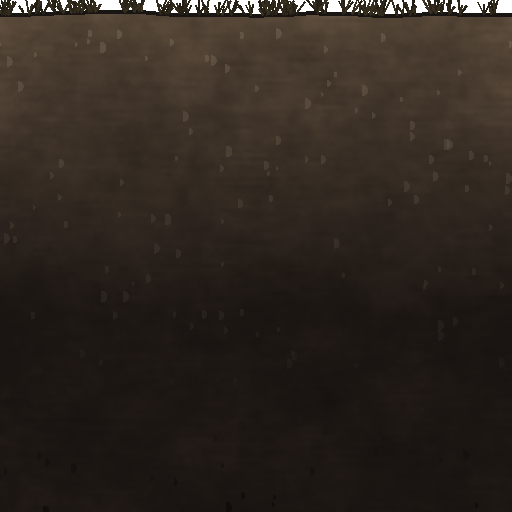
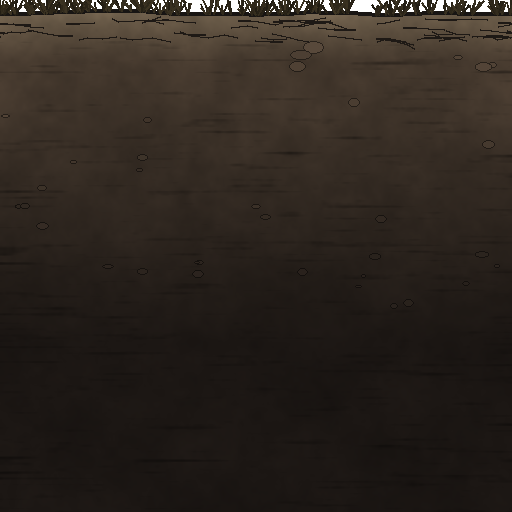
feat: ground strata/cracks + debris strip, fix parallax wrap seam, master limiter
- recorded game audio via movie writer: music + SFX present in mix; 0.007% clipped samples -> compressor + hard limiter, SFX -3 dB

Changed region(s): [[0.0, 0.0, 1.0, 0.0938], [0.5625, 0.0938, 0.5938, 0.125]]

diff --git a/tools/art/make_env.py b/tools/art/make_env.py
@@ -116,6 +116,11 @@ def mask_from(draw_fn, w, h, ss=2):
 
 
 def save(arr, name):
+    if name in ("far", "mid", "near", "fore"):
+        # texture_repeat + linear filtering would bleed the bottom row onto the top edge
+        arr = arr.copy()
+        arr[:2, :, 3] = 0
+        arr[-2:, :, 3] = 0
     Image.fromarray(arr).save(os.path.join(OUT, name + ".png"), optimize=True)
     print("wrote", name, arr.shape[1], "x", arr.shape[0])
 
@@ -379,45 +384,94 @@ def foreground(w=2048, h=200):
 
 
 def ground(w=512, h=512):
+    """Tileable earth: dusty surface band, dry-brush strata, embedded stones, dark depths."""
     n = fbm(h, w, 64, 40, 5, True)
     n2 = fbm(h, w, 12, 41, 3, True)
-    top = hexc("#5a4a3a"); deep = hexc("#1d1714")
     Y = np.linspace(0, 1, h)[:, None]
-    col = top + (deep - top) * np.clip(Y * 1.6, 0, 1)[..., None]
-    col = col * (0.8 + 0.35 * n[..., None]) * (0.9 + 0.2 * n2[..., None])
-    # strata streaks
-    s = value_noise(h, w, 4, 42, True)
-    s = ndi.uniform_filter1d(s, 31, axis=1)
-    col *= (0.9 + 0.2 * s)[..., None]
-    # pebbles
-    for _ in range(140):
-        cx, cy = rng.integers(0, w), rng.integers(30, h)
-        rr = rng.uniform(2, 6)
-        Yg, Xg = np.ogrid[0:h, 0:w]
-        dd = ((Xg - cx) % w) ** 2 + (Yg - cy) ** 2
-        pm = dd < rr * rr
-        col[pm] = col[pm] * 0.6 + hexc("#8a7a66") * 0.4 * (1 - cy / h)
-    # ink top edge + grass, first 20 px
+    top = hexc("#7a6a54"); mid_c = hexc("#4a3d31"); deep = hexc("#1c1714")
+    k = np.clip(Y / 0.12, 0, 1)
+    col = top + (mid_c - top) * k[..., None]
+    k2 = np.clip((Y - 0.12) / 0.55, 0, 1)
+    col = col + (deep - col) * k2[..., None]
+    col = col * (0.82 + 0.3 * n[..., None]) * (0.92 + 0.16 * n2[..., None])
+    # horizontal dry-brush strata
+    s = value_noise(h, w, 3, 42, True)
+    s = ndi.uniform_filter1d(s, 61, axis=1)
+    strata = np.clip((s - 0.55) * 5, 0, 1) * (Y > 0.08)
+    col = col * (1 - 0.35 * strata[..., None])
     edge_y = 12 + 4 * ridge_1d(w, 0, 1.0, 64, 43, 3)
     Yi = np.arange(h)[:, None]
     above = Yi < edge_y[None, :]
-    col[above] = 0
-    line = (Yi >= edge_y[None, :]) & (Yi < edge_y[None, :] + 4)
-    col[line] = INK
     alpha = np.where(above, 0, 255).astype(np.float32)
-    rgba = np.dstack([col.clip(0, 255), alpha]).astype(np.uint8)
-    im = Image.fromarray(rgba)
+    im = Image.fromarray(np.dstack([col.clip(0, 255), alpha]).astype(np.uint8))
     d = ImageDraw.Draw(im)
-    rr = random.Random(44)
-    for _ in range(90):
+    rr = random.Random(45)
+    # embedded stones (wrap-aware: draw twice when near the seam)
+    for _ in range(34):
+        x = rr.uniform(0, w); y = rr.uniform(40, h * 0.6)
+        rw = rr.uniform(3, 10) * (1.2 - y / h); rh = rw * rr.uniform(0.4, 0.7)
+        base_c = col[min(int(y), h - 1), int(x) % w]
+        f = rr.uniform(1.08, 1.25)
+        fill = tuple(int(min(255, v * f)) for v in base_c) + (255,)
+        edge = tuple(int(v * 0.55) for v in base_c) + (255,)
+        for ox in (0, -w, w):
+            d.ellipse([x + ox - rw, y - rh, x + ox + rw, y + rh], fill=fill, outline=edge, width=1)
+    # surface cracks
+    for _ in range(40):
+        x = rr.uniform(0, w); y = edge_y[int(x) % w] + rr.uniform(6, 30)
+        pts = [(x, y)]
+        for _ in range(rr.randint(2, 4)):
+            x += rr.uniform(6, 18); y += rr.uniform(-3, 4)
+            pts.append((x, y))
+        for ox in (0, -w):
+            d.line([(p[0] + ox, p[1]) for p in pts], fill=(30, 25, 21, 255), width=2)
+    # ink top edge + grass tufts
+    for x in range(w):
+        ey = edge_y[x]
+        d.line([(x, ey), (x, ey + 3)], fill=(24, 21, 19, 255))
+    for _ in range(110):
         x = rr.uniform(0, w)
         ey = edge_y[int(x) % w]
-        for _ in range(rr.randint(2, 5)):
-            ln = rr.uniform(6, 18)
+        for _ in range(rr.randint(2, 6)):
+            ln = rr.uniform(6, 20)
             ang = -math.pi / 2 + rr.uniform(-0.7, 0.7)
-            c = tuple(int(v) for v in (hexc("#2a2418") * rr.uniform(0.8, 1.4)).clip(0, 255)) + (255,)
+            c = tuple(int(v) for v in (hexc("#2a2418") * rr.uniform(0.8, 1.5)).clip(0, 255)) + (255,)
             d.line([(x, ey + 2), (x + math.cos(ang) * ln, ey + 2 + math.sin(ang) * ln)], fill=c, width=2)
     save(np.asarray(im), "ground")
+
+
+def debris(w=2048, h=90):
+    """Tileable strip of surface clutter laid along the ground line."""
+    im = Image.new("RGBA", (w, h), (0, 0, 0, 0))
+    d = ImageDraw.Draw(im)
+    rr = random.Random(77)
+    base = h - 14
+    x = 10.0
+    while x < w - 60:
+        k = rr.random()
+        if k < 0.3:   # rock
+            rw, rh = rr.uniform(10, 26), rr.uniform(6, 16)
+            g = rr.randint(70, 110)
+            d.ellipse([x, base - rh * 1.6, x + rw * 2, base + 4], fill=(g, g - 6, g - 14, 255), outline=(20, 18, 16, 255), width=2)
+        elif k < 0.45:  # broken roof tile
+            tw = rr.uniform(16, 30)
+            d.polygon([(x, base + 2), (x + 4, base - 8), (x + tw, base - 10), (x + tw - 3, base + 2)], fill=(64, 58, 54, 255), outline=(20, 18, 16, 255))
+            d.line([(x + tw * 0.4, base - 9), (x + tw * 0.45, base + 1)], fill=(30, 27, 24, 255), width=1)
+        elif k < 0.55:  # bone
+            ln = rr.uniform(18, 34)
+            d.line([(x, base - 2), (x + ln, base - 6)], fill=(197, 191, 179, 255), width=5)
+            for ex, ey in ((x, base - 2), (x + ln, base - 6)):
+                d.ellipse([ex - 4, ey - 4, ex + 4, ey + 4], fill=(197, 191, 179, 255), outline=(30, 27, 24, 255))
+        elif k < 0.63:  # torn talisman scrap
+            d.polygon([(x, base), (x + 4, base - 22), (x + 14, base - 20), (x + 12, base)], fill=(201, 164, 73, 255), outline=(40, 30, 20, 255))
+            d.line([(x + 8, base - 18), (x + 8, base - 3)], fill=(124, 35, 29, 255), width=2)
+        elif k < 0.85:  # weed clump
+            for _ in range(rr.randint(4, 9)):
+                ln = rr.uniform(10, 34)
+                ang = -math.pi / 2 + rr.uniform(-0.8, 0.8)
+                d.line([(x, base + 2), (x + math.cos(ang) * ln, base + 2 + math.sin(ang) * ln)], fill=(36, 32, 22, 255), width=2)
+        x += rr.uniform(40, 160)
+    save(np.asarray(im), "debris")
 
 
 # ---------------------------------------------------------------- props
@@ -617,6 +671,7 @@ if __name__ == "__main__":
     ruins_layer(2048, 520, "near", "#2c2622", 61, 1.3, ["house", "tree", "wall", "gap", "pagoda", "tree", "tower", "gap"], 512, 1.15, 0.95, mist=0.3)
     foreground()
     ground()
+    debris()
     make_props()
     title_bg()
     os.makedirs(os.path.join(OUT, "..", "ui"), exist_ok=True)
